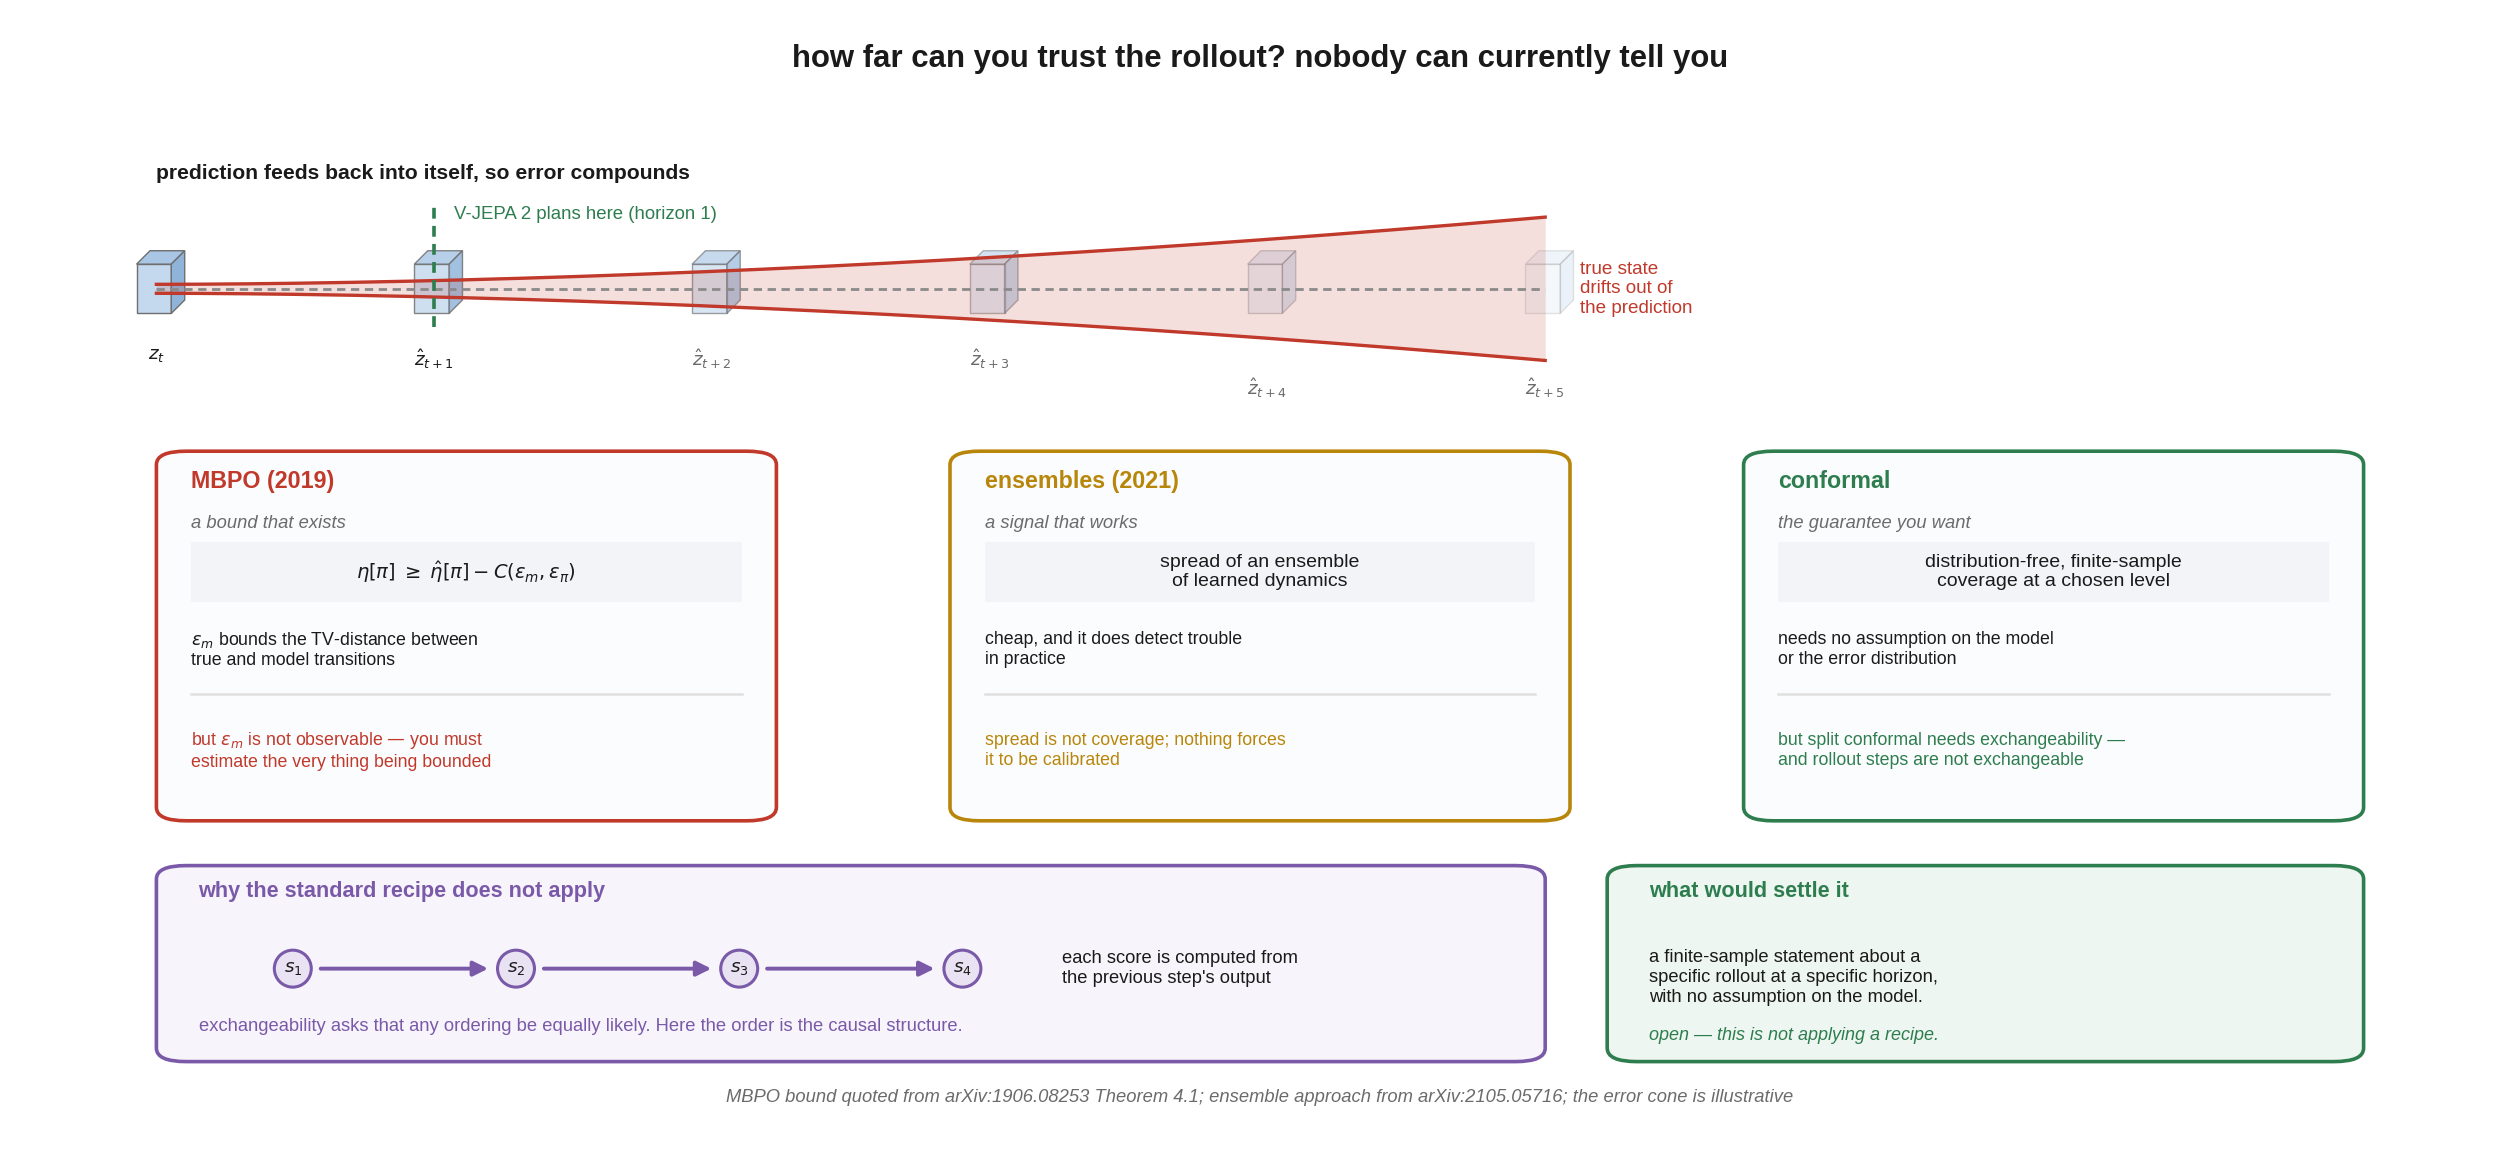
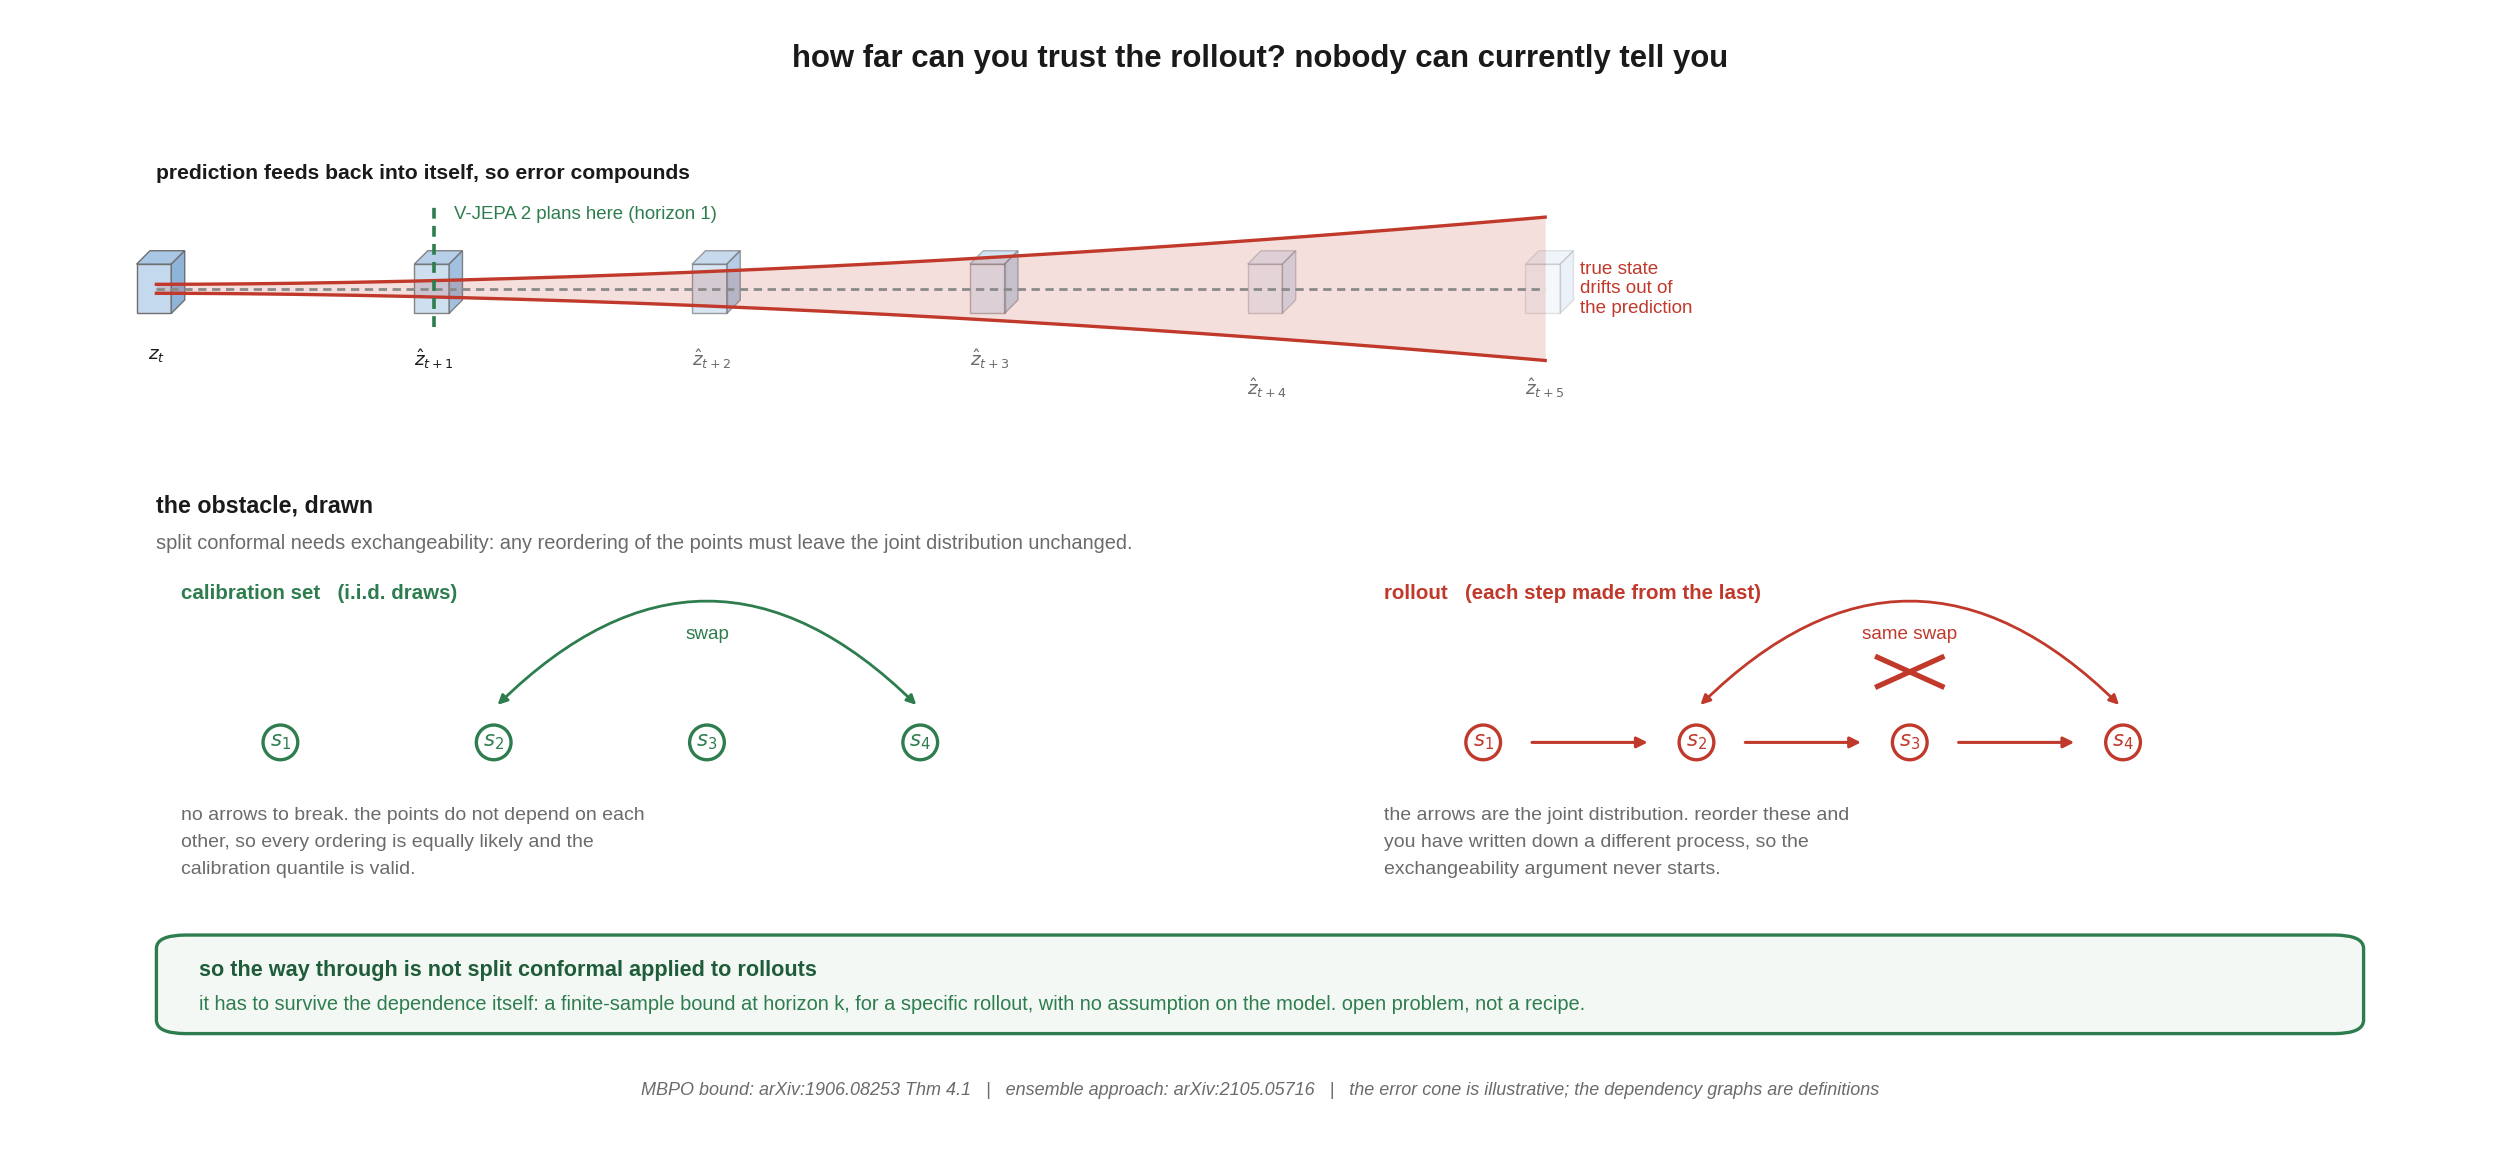
fix: draw the exchangeability obstacle instead of describing it
The lower two thirds of the rollout figure were three paragraphs in
coloured boxes — the shape this repo argues against, appearing in the
repo's own figure. The comparison those boxes were making now lives in the
recursion figure, so the space went to the thing that needed drawing.

Split conformal fails here because of a property of the dependency
structure, so the dependency structure is what is shown: four i.i.d.
calibration points with a swap that changes nothing, and four rollout
steps with arrows between them and the same swap struck through. The
arrows are the joint distribution; reorder them and you have written down
a different process. That is the entire obstacle, and it fits in a picture.

Also tightened the action-frame figure, which carried 21% dead height
under its panels. bbox_inches="tight" cannot reach whitespace inside an
axes that already fills the figure, so the save now passes an explicit
crop box in inches. 869px to 617px, same content.

diff --git a/docs/rollout_figure.py b/docs/rollout_figure.py
@@ -5,14 +5,14 @@ import numpy as np
 import matplotlib
 matplotlib.use("Agg")
 import matplotlib.pyplot as plt
-from matplotlib.patches import FancyBboxPatch, Rectangle, Circle
+from matplotlib.patches import FancyBboxPatch, Rectangle, Circle, Ellipse
 from sciglyph import set_canvas, RC, report
 from sciglyph.arch import flow, cuboid, BLUE
 
 plt.rcParams.update(RC)
 fig = plt.figure(figsize=(12.4, 5.6), dpi=200)
 ax = fig.add_axes([0, 0, 1, 1]); ax.set_xlim(0, 1); ax.set_ylim(0, 1); ax.axis("off")
-set_canvas(fig)
+AR = set_canvas(fig)
 INK, MUTE = "#1a1a1a", "#6b6b6b"
 RED, GREEN, AMBER, PURPLE = "#c0392b", "#2e7d4f", "#b8860b", "#7a5aa8"
 
@@ -50,73 +50,72 @@ ax.plot([PX0 + PW / 5] * 2, [PY - .034, PY + .075], color=GREEN, lw=1.3,
 ax.text(PX0 + PW / 5 + .008, PY + .062, "V-JEPA 2 plans here (horizon 1)",
         fontsize=6.7, color=GREEN, zorder=20)
 
-# ---------- three attempts ----------
-Y = .500
-cards = [
-    (.055, "MBPO (2019)", RED, "a bound that exists",
-     r"$\eta[\pi]\;\geq\;\hat{\eta}[\pi]-C(\epsilon_m,\epsilon_\pi)$",
-     "$\\epsilon_m$ bounds the TV-distance between\ntrue and model transitions",
-     "but $\\epsilon_m$ is not observable — you must\nestimate the very thing being bounded"),
-    (.375, "ensembles (2021)", AMBER, "a signal that works",
-     "spread of an ensemble\nof learned dynamics",
-     "cheap, and it does detect trouble\nin practice",
-     "spread is not coverage; nothing forces\nit to be calibrated"),
-    (.695, "conformal", GREEN, "the guarantee you want",
-     "distribution-free, finite-sample\ncoverage at a chosen level",
-     "needs no assumption on the model\nor the error distribution",
-     "but split conformal needs exchangeability —\nand rollout steps are not exchangeable"),
-]
-for x, name, col, tag, formula, good, catch in cards:
-    box(x, Y - .215, .250, .330, "#fbfcfd", col, 1.3)
-    ax.text(x + .014, Y + .082, name, fontsize=8.4, ha="left", weight="bold",
-            color=col, zorder=20)
-    ax.text(x + .014, Y + .046, tag, fontsize=6.6, ha="left", color=MUTE,
-            style="italic", zorder=20)
-    ax.add_patch(Rectangle((x + .014, Y - .020), .222, .054, fc="#f2f4f7",
-                           ec="none", zorder=5))
-    ax.text(x + .125, Y + .007, formula, fontsize=7.0, ha="center", va="center",
-            color=INK, zorder=20)
-    ax.text(x + .014, Y - .062, good, fontsize=6.4, ha="left", va="center",
-            color=INK, zorder=20)
-    ax.plot([x + .014, x + .236], [Y - .102, Y - .102], color="#e0e0e0", lw=.9, zorder=5)
-    ax.text(x + .014, Y - .152, catch, fontsize=6.4, ha="left", va="center",
-            color=col, zorder=20)
+# ============================================================
+# Lower half: why the standard conformal recipe does not reach this.
+# Drawn rather than described - the obstacle is a property of the
+# dependency structure, so the dependency structure is what is shown.
+# ============================================================
+ax.text(.055, .560, "the obstacle, drawn", fontsize=8.4, weight="bold", color=INK, zorder=20)
+ax.text(.055, .528,
+        "split conformal needs exchangeability: any reordering of the points must leave the joint distribution unchanged.",
+        fontsize=7.2, color=MUTE, zorder=20)
 
-# ---------- bottom: why exchangeability fails ----------
-BY = .175
-box(.055, BY - .105, .560, .175, "#f7f4fb", PURPLE, 1.3)
-ax.text(.072, BY + .042, "why the standard recipe does not apply",
-        fontsize=7.8, ha="left", weight="bold", color=PURPLE, zorder=20)
-xs = [.110, .200, .290, .380]
-for i, x in enumerate(xs):
-    _r = .0165
-    ax.add_patch(plt.matplotlib.patches.Ellipse(
-        (x, BY - .022), 2 * _r / (12.4 / 5.6), 2 * _r,
-        fc="#e8e2f2", ec=PURPLE, lw=1.1, zorder=6))
-    ax.text(x, BY - .022, f"$s_{i+1}$", fontsize=6.6, ha="center", va="center",
-            color=INK, zorder=8)
-    if i:
-        ax.annotate("", xy=(x - .0090, BY - .022), xytext=(xs[i-1] + .0090, BY - .022),
-                    arrowprops=dict(arrowstyle="-|>", color=PURPLE, lw=1.4,
-                                    mutation_scale=11), zorder=9)
-ax.text(.420, BY - .022, "each score is computed from\nthe previous step's output",
-        fontsize=6.6, va="center", color=INK, zorder=20)
-ax.text(.072, BY - .078, "exchangeability asks that any ordering be equally likely. Here the order "
-                         "is the causal structure.",
-        fontsize=6.6, ha="left", color=PURPLE, zorder=20)
+def dot(x, y, lab, c, r=.0155, fs=7.6, z=10):
+    ax.add_patch(Ellipse((x, y), 2 * r / AR, 2 * r, fc="white", ec=c, lw=1.2, zorder=z))
+    ax.text(x, y, lab, fontsize=fs, ha="center", va="center", color=c, zorder=z + 1)
 
-box(.640, BY - .105, .305, .175, "#eef6f1", GREEN, 1.3)
-ax.text(.657, BY + .042, "what would settle it", fontsize=7.8, ha="left",
-        weight="bold", color=GREEN, zorder=20)
-ax.text(.657, BY - .030, "a finite-sample statement about a\nspecific rollout at a specific horizon,\n"
-                         "with no assumption on the model.",
-        fontsize=6.6, ha="left", va="center", color=INK, zorder=20)
-ax.text(.657, BY - .086, "open — this is not applying a recipe.",
-        fontsize=6.5, ha="left", color=GREEN, style="italic", zorder=20)
+# ---- left: i.i.d. calibration set, a swap changes nothing ----
+LX, LY = .105, .355
+ax.text(LX - .040, LY + .128, "calibration set   (i.i.d. draws)",
+        fontsize=7.4, weight="bold", color=GREEN, zorder=20)
+xs = [LX + k * .086 for k in range(4)]
+for k, x in enumerate(xs):
+    dot(x, LY, "$s_%d$" % (k + 1), GREEN)
+ax.annotate("", xy=(xs[3], LY + .030), xytext=(xs[1], LY + .030),
+            arrowprops=dict(arrowstyle="<|-|>", color=GREEN, lw=1.0,
+                            connectionstyle="arc3,rad=-0.5"), zorder=8)
+ax.text((xs[1] + xs[3]) / 2, LY + .092, "swap", fontsize=6.8, ha="center", color=GREEN, zorder=20)
+ax.text(LX - .040, LY - .058,
+        "no arrows to break. the points do not depend on each\n"
+        "other, so every ordering is equally likely and the\n"
+        "calibration quantile is valid.",
+        fontsize=7.0, va="top", color=MUTE, zorder=20, linespacing=1.75)
 
-ax.text(.5, .034, "MBPO bound quoted from arXiv:1906.08253 Theorem 4.1; ensemble approach "
-                  "from arXiv:2105.05716; the error cone is illustrative",
-        fontsize=6.6, ha="center", color=MUTE, style="italic", zorder=20)
+# ---- right: a rollout, where the same swap is illegal ----
+RX, RY = .590, .355
+ax.text(RX - .040, RY + .128, "rollout   (each step made from the last)",
+        fontsize=7.4, weight="bold", color=RED, zorder=20)
+xs2 = [RX + k * .086 for k in range(4)]
+for k, x in enumerate(xs2):
+    dot(x, RY, "$s_%d$" % (k + 1), RED)
+for k in range(3):
+    flow(ax, (xs2[k] + .018, RY), (xs2[k + 1] - .018, RY), c=RED, lw=1.1, ms=8, z=9)
+ax.annotate("", xy=(xs2[3], RY + .030), xytext=(xs2[1], RY + .030),
+            arrowprops=dict(arrowstyle="<|-|>", color=RED, lw=1.0,
+                            connectionstyle="arc3,rad=-0.5"), zorder=8)
+mx = (xs2[1] + xs2[3]) / 2
+ax.text(mx, RY + .092, "same swap", fontsize=6.8, ha="center", color=RED, zorder=20)
+ax.plot([mx - .013, mx + .013], [RY + .050, RY + .076], color=RED, lw=1.9, zorder=14)
+ax.plot([mx - .013, mx + .013], [RY + .076, RY + .050], color=RED, lw=1.9, zorder=14)
+ax.text(RX - .040, RY - .058,
+        "the arrows are the joint distribution. reorder these and\n"
+        "you have written down a different process, so the\n"
+        "exchangeability argument never starts.",
+        fontsize=7.0, va="top", color=MUTE, zorder=20, linespacing=1.75)
+
+# ---- what a usable result would have to be ----
+box(.055, .095, .890, .088, "#f3f8f4", GREEN, 1.2)
+ax.text(.072, .146, "so the way through is not split conformal applied to rollouts",
+        fontsize=7.8, weight="bold", color="#1f5c39", zorder=20)
+ax.text(.072, .116,
+        "it has to survive the dependence itself: a finite-sample bound at horizon k, for a specific rollout, "
+        "with no assumption on the model. open problem, not a recipe.",
+        fontsize=7.2, color="#2e7d4f", zorder=20)
+
+ax.text(.5, .040,
+        "MBPO bound: arXiv:1906.08253 Thm 4.1   |   ensemble approach: arXiv:2105.05716   |   "
+        "the error cone is illustrative; the dependency graphs are definitions",
+        fontsize=6.5, ha="center", color=MUTE, style="italic", zorder=20)
 
 report(fig, ax)
 fig.savefig(Path(__file__).with_name("rollout.png"),

diff --git a/docs/action-frame_figure.py b/docs/action-frame_figure.py
@@ -6,11 +6,12 @@ import numpy as np
 import matplotlib
 matplotlib.use("Agg")
 import matplotlib.pyplot as plt
+from matplotlib.transforms import Bbox
 from matplotlib.patches import FancyBboxPatch, Rectangle, Ellipse
 from sciglyph import set_canvas, RC, report
 
 plt.rcParams.update(RC)
-FW, FH = 12.2, 4.15
+FW, FH = 12.2, 3.72
 fig = plt.figure(figsize=(FW, FH), dpi=200)
 ax = fig.add_axes([0, 0, 1, 1]); ax.set_xlim(0, 1); ax.set_ylim(0, 1); ax.axis("off")
 set_canvas(fig)
@@ -117,13 +118,15 @@ ax.plot([.692, .940], [.408, .408], color="#dcdcdc", lw=.9, zorder=5)
 ax.text(.692, .372, "open: what conditions on the observation\nmake the frame identifiable at all?",
         fontsize=6.8, ha="left", va="center", color=BLUE, zorder=20)
 
-ax.text(.5, .120, "an action is only meaningful relative to a frame — if the frame is ambiguous, "
+ax.text(.5, .262, "an action is only meaningful relative to a frame — if the frame is ambiguous, "
                   "the world model is being asked an ill-posed question",
         fontsize=7.4, ha="center", color=INK, zorder=20)
-ax.text(.5, .052, "limitation quoted from V-JEPA 2, arXiv:2506.09985 §4.3; the scenes are schematic",
+ax.text(.5, .200, "limitation quoted from V-JEPA 2, arXiv:2506.09985 §4.3; the scenes are schematic",
         fontsize=6.6, ha="center", color=MUTE, style="italic", zorder=20)
 
 report(fig, ax)
+# 内容(含最下面那行脚注)只占到轴坐标 y≈.17 以上。bbox_inches="tight" 裁不掉轴*内部*的空白
+# (轴本身铺满整幅), 所以直接给出以英寸计的裁剪框, 原点在左下角。
 fig.savefig(Path(__file__).with_name("action-frame.png"),
-            dpi=200, bbox_inches="tight", facecolor="white")
+            dpi=200, bbox_inches=Bbox([[0, FH * 0.170], [FW, FH]]), facecolor="white")
 print("saved")
